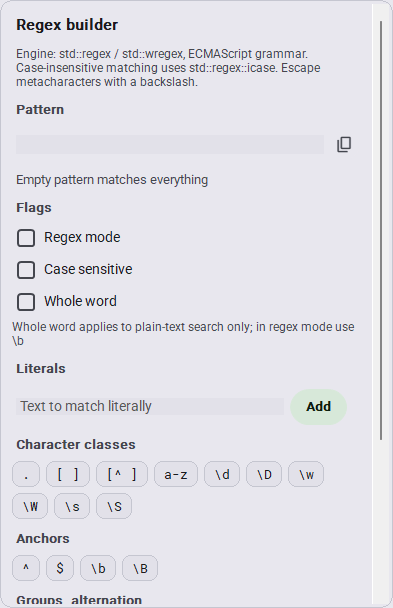
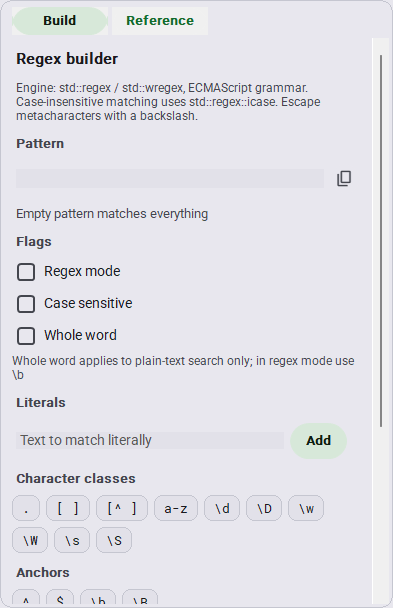
CI never skips; regex Reference title mnemonic fix; final popover captures
- build_all.yml: the Markdown-only classifier no longer gates the Windows
  build - every push builds and releases (user mandate; the classifier
  still logs its verdict for information).
- RegexBuilderPopup: 'Reference & help' renders its ampersand literally
  (SetLabelText, same fix as the profiles dialog title).
- Screenshots: tabbed builder popover replaces the pre-tab capture, plus a
  new Reference-tab capture (headlessly verified: opens at top, wide term
  column, correct title). ROADMAP: recorded the preferences-auto-history,
  AI printer-watch, M3 motion, and MD3 dialog-chrome mandates.

CI 以後一律唔准偷懶跳過，個個 push 都要老老實實砌一次。正則參考頁個
「&」字執返正，截圖換晒新版。仲有成張願望清單記低咗喺 ROADMAP。

diff --git a/src/slic3r/GUI/Widgets/RegexBuilderPopup.cpp b/src/slic3r/GUI/Widgets/RegexBuilderPopup.cpp
@@ -596,7 +596,9 @@ void RegexBuilderPopup::buildReference()
         sizer->Add(row, 0, wxLEFT | wxRIGHT | wxTOP, pad - FromDIP(8));
     };
 
-    auto *title = new Label(m_ref_scroll, Label::Head_14, _L("Reference & help"));
+    auto *title = new Label(m_ref_scroll, Label::Head_14, wxEmptyString);
+    // SetLabelText: the '&' must render literally, not become a mnemonic.
+    title->SetLabelText(_L("Reference & help"));
     title->SetBackgroundColour(surface);
     title->SetForegroundColour(on);
     sizer->Add(title, 0, wxLEFT | wxRIGHT | wxTOP, pad);

diff --git a/ROADMAP.md b/ROADMAP.md
@@ -56,6 +56,40 @@ interlock, Version history, Command palette already borderless), then sweep the 
 #32770 dialogs. Keep accessibility: title announced, close reachable by keyboard, DWM
 rounded corners via DWMWCP_ROUND.
 
+## Next: preferences auto-history — per-change Git commits (user mandate 2026-07-24)
+
+Every preferences change commits automatically into an isolated local Git repo with its own
+history manager. Build on the config-profiles engine: a shared `ProjectHistoryManager`
+instance (root beside the data dir) with identity `preferences.history`; hook the settings
+save path (the `app_config->save()` calls in `Preferences.cpp` and the palette's rich rows)
+to enqueue a snapshot of `BambuStudio.conf` — the engine already dedupes identical snapshots
+and serializes writes. History UI: a "Preferences history…" entry (in Preferences and the
+Config profiles dialog) listing timestamped changes with the changed keys in the commit
+message; restore materializes a conf beside the live one and applies after an explicit
+restart prompt (never overwrite the live conf under a running app). Catalog + docs + tests
+per the standing rules.
+
+## Next: AI printer watch — live-view summaries via local models (user mandate 2026-07-24)
+
+Background watcher that periodically grabs a frame from the printer's live camera view (the
+user does not need to be actively watching the app), sends it to a **local** model, and posts
+a short status summary as a non-blocking notification; when the frame suggests a failure
+(spaghetti, detachment, nozzle blob) it should describe what likely happened and how to fix
+it, escalating to a persistent warning toast.
+
+- **Backend order:** Ollama HTTP API on localhost first (user's stated model preference:
+  gpt-oss, Qwen, Gemma — vision frames go to a vision-capable tag such as `qwen2.5-vl` or
+  `gemma3`, with `gpt-oss` usable only for text-side summarization since it has no vision);
+  OpenCode as the agent fallback when Ollama is absent. Never a cloud call; frames stay on
+  the machine, feature strictly opt-in and OFF by default with a clear privacy note.
+- **Implementation sketch:** reuse the camera pipeline that feeds the Device live view to
+  save a JPEG frame on a configurable timer (default 5 min); POST to
+  `/api/generate` with the image and a bounded prompt; parse status/error; route through
+  NotificationManager (info toast for OK, persistent warning + fix suggestions on error);
+  Preferences section (enable, interval, model tag, backend probe with graceful "not
+  installed" state); catalog entries for every string; document failure modes (Ollama down,
+  model missing, camera off).
+
 ## Next: Material Design motion & transitions (user mandate 2026-07-24)
 
 Bring the M3 motion system to the whole app: a shared easing/timer helper

diff --git a/docs/screenshots/README.md b/docs/screenshots/README.md
@@ -190,12 +190,13 @@ Page shots are `<page>.png`; button close-ups are `<page>--<button>.png` (or ded
 - [`tab-bar-two-tabs.png`](project-tabs/tab-bar-two-tabs.png)
 - [`tab-bar.png`](project-tabs/tab-bar.png)
 
-## regex-builder (28 captures)
+## regex-builder (29 captures)
 
 - [`builder-popover--case-sensitive.png`](regex-builder/builder-popover--case-sensitive.png)
 - [`builder-popover--insert-header.png`](regex-builder/builder-popover--insert-header.png)
 - [`builder-popover--pattern-editor.png`](regex-builder/builder-popover--pattern-editor.png)
 - [`builder-popover--quantifiers.png`](regex-builder/builder-popover--quantifiers.png)
+- [`builder-popover--reference-tab.png`](regex-builder/builder-popover--reference-tab.png)
 - [`builder-popover--regex-mode.png`](regex-builder/builder-popover--regex-mode.png)
 - [`builder-popover--test-pattern.png`](regex-builder/builder-popover--test-pattern.png)
 - [`builder-popover--token-alternation.png`](regex-builder/builder-popover--token-alternation.png)
